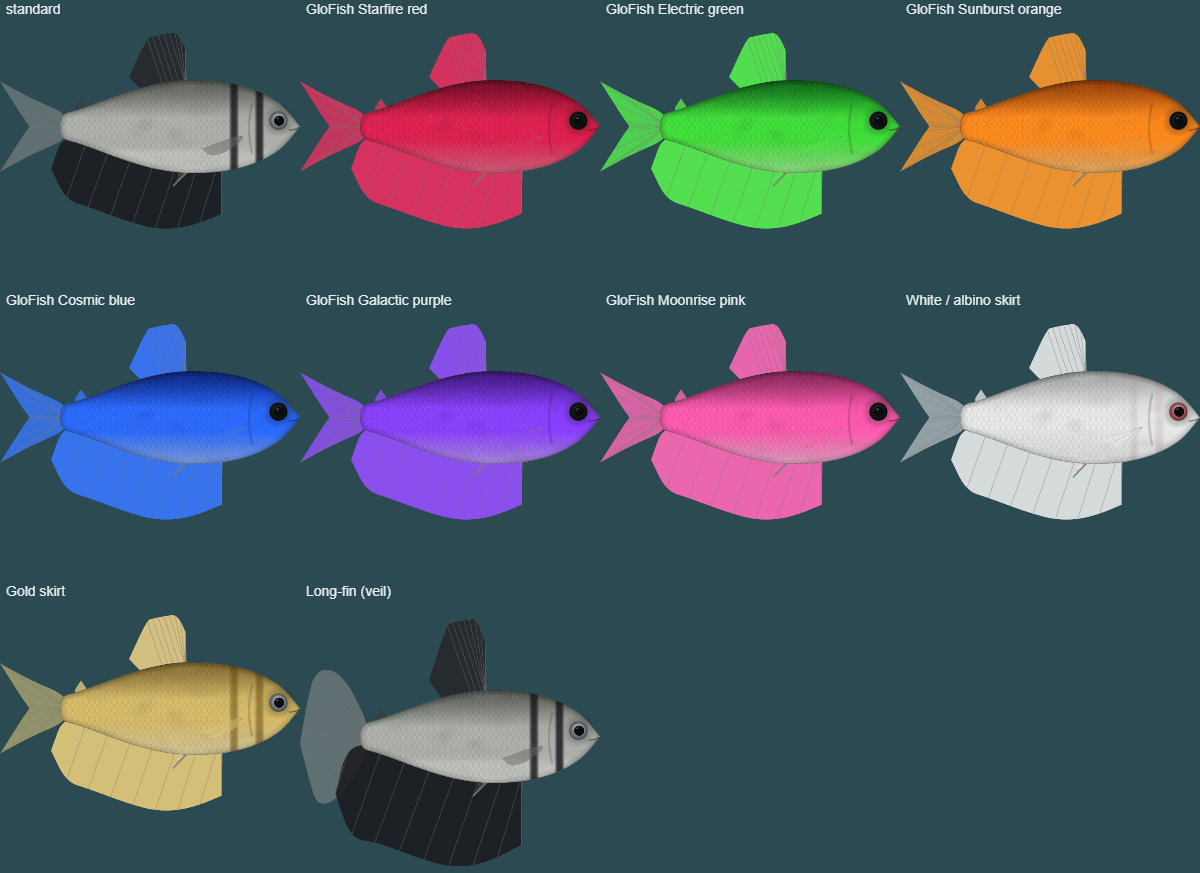
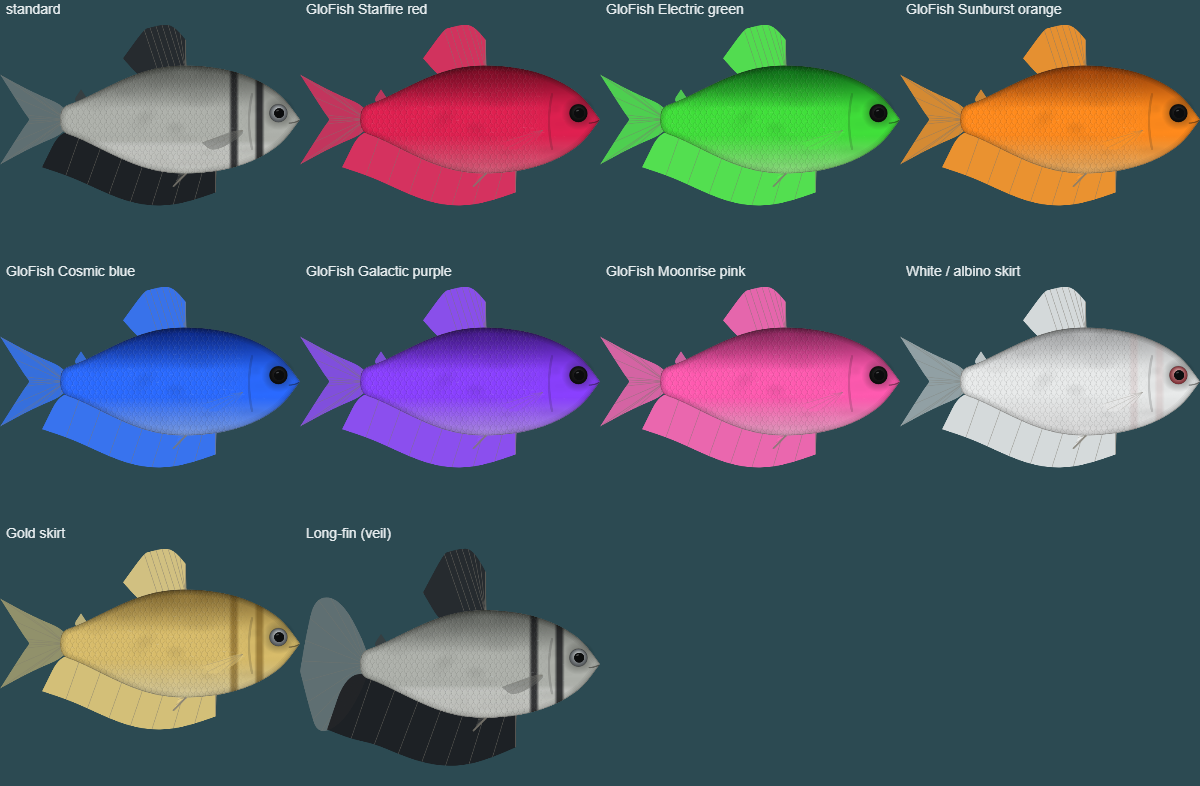
CM3 (R107) part 2: discus rebuilt (rounder disc, snout and eye set back, red eye, taller dorsal / anal, new 'maze' mark for the vermiculated net, checkerboard form), black Moscow guppy tail, slimmer guppy fancy tails; Commons reference photos side by side in research/screens/CM3/compare
(cherry picked from commit 82fdf741ec49528fd50106c44b8f618521399637)

diff --git a/src/art/forms.ts b/src/art/forms.ts
@@ -99,14 +99,14 @@ const bettaT: Record<string, Patch> = {
 };
 
 // ---------- guppy (male: fancy tail and gonopodium; the female keeps her plain body with a coloured tail)
-const gDelta = { type: 'delta' as const, h: 0.3 };
+const gDelta = { type: 'delta' as const, h: 0.22 };
 const guppyC: Record<string, Patch> = {
   'full-red': look({ shade: ['#7a1218', '#b8202a', '#d8524e'], fin: '#c4222c', tail: '#c8222c', dorsal: '#c4222c', fm: 0.5, marks: [], finMarks: [spots('#e8504a', 24, 0.04, 0.4, -0.24, 0.24, 0.012, 0.25)], iris: ['#8a3a30', '#2a0c08'], fmarks: undefined }),
   'japan-blue': look({ shade: ['#142a58', '#2c5ca8', '#5a8cc8'], fin: '#2a58b4', tail: '#2c5eb8', dorsal: '#2c5eb8', fm: 0.45, marks: [spots('#8ab8f0', 36, 0.45, 0.95, -0.05, 0.06, 0.012, 0.3)], finMarks: [spots('#7aa8e8', 24, 0.04, 0.4, -0.24, 0.24, 0.012, 0.25)], shimmerRgb: '150,195,255' }),
   'moscow-blue': look({ shade: ['#0c1844', '#183c98', '#3868c0'], fin: '#1a3ca0', tail: '#1c40a8', dorsal: '#1a3ca0', fm: 0.45, marks: [spots('#6a9ee8', 36, 0.45, 0.95, -0.05, 0.06, 0.012, 0.3)], finMarks: [spots('#4a7ad0', 24, 0.04, 0.4, -0.24, 0.24, 0.012, 0.25)], shimmerRgb: '130,175,255', iris: ['#3a4a6a', '#0a0a18'] }),
   'moscow-green': look({ shade: ['#0c3a20', '#1a7a44', '#3cb070'], fin: '#1c8a4c', tail: '#1e8e50', dorsal: '#1c8a4c', fm: 0.45, marks: [spots('#78e0a0', 36, 0.45, 0.95, -0.05, 0.06, 0.012, 0.3)], finMarks: [spots('#4ac07a', 24, 0.04, 0.4, -0.24, 0.24, 0.012, 0.25)], shimmerRgb: '150,255,190' }),
   'moscow-purple': look({ shade: ['#2a0c4a', '#5a24a0', '#8c58c8'], fin: '#5a28a4', tail: '#5e2aa8', dorsal: '#5a28a4', fm: 0.45, marks: [spots('#b090f0', 36, 0.45, 0.95, -0.05, 0.06, 0.012, 0.3)], finMarks: [spots('#8a60d0', 24, 0.04, 0.4, -0.24, 0.24, 0.012, 0.25)], shimmerRgb: '200,170,255' }),
-  'black-moscow': look({ shade: ['#08080c', '#14141c', '#26262e'], fin: '#101018', tail: '#12121a', dorsal: '#101018', fm: 0.55, marks: [spots('#3a3a50', 30, 0.45, 0.95, -0.05, 0.06, 0.012, 0.3)], finMarks: [], shimmerRgb: '130,140,190', iris: ['#4a4a52', '#0a0a0c'] }),
+  'black-moscow': look({ shade: ['#08080c', '#14141c', '#26262e'], fin: '#101018', tail: '#12121a', dorsal: '#101018', fm: 0.55, marks: [spots('#3a3a50', 30, 0.45, 0.95, -0.05, 0.06, 0.012, 0.3)], finMarks: [band(0.02, 0.38, 0.03, 0.26, '#d8782a', 0.6, 0.07), band(0.02, 0.3, -0.2, -0.02, '#b8b090', 0.3, 0.07)], shimmerRgb: '130,140,190', iris: ['#4a4a52', '#0a0a0c'] }),
   tuxedo: look({ shade: ['#2a2a30', '#6a6c70', '#a8aab0'], fin: '#2a64b8', tail: '#2a64b8', dorsal: '#2a64b8', fm: 0.4,
     marks: [{ k: 'band', u0: 0.38, u1: 0.62, v0: -0.12, v1: 0.12, c: '#0a0a0e', a: 0.97, f: 0.05 }, { k: 'band', u0: 0.4, u1: 0.5, v0: -0.12, v1: 0.12, c: '#0a0a0e', a: 0.9, f: 0.03 }, { k: 'blob', u: 0.86, v: 0, ru: 0.2, rv: 0.1, c: '#c4d0dc', a: 0.55 }], finMarks: [spots('#1a3a8a', 24, 0.04, 0.4, -0.24, 0.24, 0.012, 0.3)] }),
   cobra: look({ shade: ['#8a6a2a', '#d8b050', '#f0dc94'], fin: '#e8a830', tail: '#e8a830', dorsal: '#e8a830', fm: 0.4,
@@ -118,14 +118,14 @@ const guppyC: Record<string, Patch> = {
 };
 const guppyT: Record<string, Patch> = {
   delta: fins({ tail: gDelta, dorsalH: 1.5 }),
-  fan: fins({ tail: { type: 'round', h: 0.27 }, dorsalH: 1.3 }),
-  veil: fins({ tail: { type: 'veil', h: 0.38 }, dorsalH: 2 }),
-  lyre: fins({ tail: { type: 'lyre', h: 0.3, cut: 0.45 }, dorsalH: 1.5 }),
-  spade: fins({ tail: { type: 'spade', h: 0.3 }, dorsalH: 1.3 }),
-  round: fins({ tail: { type: 'round', h: 0.2 } }),
+  fan: fins({ tail: { type: 'round', h: 0.2 }, dorsalH: 1.3 }),
+  veil: fins({ tail: { type: 'veil', h: 0.3 }, dorsalH: 2 }),
+  lyre: fins({ tail: { type: 'lyre', h: 0.24, cut: 0.45 }, dorsalH: 1.5 }),
+  spade: fins({ tail: { type: 'spade', h: 0.22 }, dorsalH: 1.3 }),
+  round: fins({ tail: { type: 'round', h: 0.16 } }),
   pin: fins({ tail: { type: 'pin', h: 0.22 } }),
-  doublesword: fins({ tail: { type: 'double', h: 0.3 }, dorsalH: 1.5 }),
-  dumbo: fins({ pec: 2.4, tail: { type: 'delta', h: 0.28 }, dorsalH: 1.4 }),
+  doublesword: fins({ tail: { type: 'double', h: 0.22 }, dorsalH: 1.5 }),
+  dumbo: fins({ pec: 2.4, tail: { type: 'delta', h: 0.2 }, dorsalH: 1.4 }),
 };
 
 // ---------- platy / molly / swordtail (males: gonopodium; females are paler)
@@ -174,16 +174,19 @@ const angelC: Record<string, Patch> = {
 const angelT: Record<string, Patch> = { veil: (p) => ({ ...p, tail: { ...p.tail, type: 'veil', h: 0.38 }, dorsal: p.dorsal && { ...p.dorsal, h: (p.dorsal as { h: number }).h * 1.25 } as typeof p.dorsal, anal: p.anal && { ...p.anal, h: (p.anal as { h: number }).h * 1.3 } as typeof p.anal, pelvic: p.pelvic && { ...p.pelvic, len: p.pelvic.len * 1.3 } }) };
 
 // ---------- discus
-const dlines = (a: string, b: string, seed = 0.012) => Array.from({ length: 15 }, (_, i) => ({ k: 'band' as const, u0: 0.12, u1: 0.98, v0: -0.34 + i * 0.045, v1: -0.34 + i * 0.045 + seed, c: i % 2 ? a : b, a: 0.75, wave: 0.014 }));
+const eyeBar = (c = '#10202a', a = 0.55): Marks[number] => ({ k: 'bars', us: [0.925], w: 0.026, c, a });
+const net = (c: string, a: number, seed: number, o: { lv?: number; w?: number; scale?: number; stretch?: number; rim?: [number, number]; core?: number; above?: boolean } = {}): Marks[number] => ({ k: 'maze', u0: 0.13, u1: 1, v0: -0.42, v1: 0.42, c, a, scale: o.scale ?? 0.07, w: o.w ?? 0.26, lv: o.lv, seed, stretch: o.stretch ?? 1.5, rim: o.rim, core: o.core, above: o.above });
+const fnet = (c: string, a: number, o: { lv?: number; w?: number } = {}): Marks[number] => ({ k: 'maze', u0: 0, u1: 1, v0: -0.6, v1: 0.6, c, a, scale: 0.05, w: o.w ?? 0.42, lv: o.lv, seed: 31, stretch: 1.4 });
 const discusC: Record<string, Patch> = {
-  'red-turquoise': look({ shade: ['#7a2a1c', '#c8482c', '#e88860'], fin: '#c8502a', tail: '#b86a50', marks: [{ k: 'bars', us: [0.88, 0.2], w: 0.035, c: '#3a1a14', a: 0.35 }, ...dlines('#2f9ab8', '#6adbe0', 0.011).filter((_, i) => i % 2 === 0)], finMarks: [] }),
-  'pigeon-blood': look({ shade: ['#e0803a', '#f2a860', '#fad8a8'], fin: '#e8884a', tail: '#e6a070', marks: [{ k: 'blob', u: 0.5, v: 0.15, ru: 0.35, rv: 0.25, c: '#fff0d8', a: 0.55 }, { k: 'blob', u: 0.8, v: -0.2, ru: 0.15, rv: 0.12, c: '#e05a28', a: 0.5 }], finMarks: [], iris: ['#d02a1a', '#4a0808'] }),
-  snakeskin: look({ shade: ['#5a4a32', '#b8985a', '#dcc890'], fin: '#a88858', tail: '#9a8058', marks: [{ k: 'bars', us: [0.88, 0.2], w: 0.035, c: '#2a2a30', a: 0.4 }, ...Array.from({ length: 26 }, (_, i) => ({ k: 'band' as const, u0: 0.12, u1: 0.98, v0: -0.38 + i * 0.03, v1: -0.38 + i * 0.03 + 0.012, c: i % 3 ? '#3a2a1a' : '#e8d8a0', a: 0.65, wave: 0.03 }))], finMarks: [] }),
-  cobalt: look({ shade: ['#10246a', '#2650b8', '#5088d8'], fin: '#2c58b8', tail: '#4468b0', marks: [{ k: 'bars', us: [0.88, 0.2], w: 0.035, c: '#10143a', a: 0.4 }, ...dlines('#4a88e8', '#7ab8f8', 0.012)], finMarks: [], shimmerRgb: '125,180,255' }),
-  red: look({ shade: ['#6a0e10', '#b81c1e', '#dc5a50'], fin: '#c01e20', tail: '#a84048', marks: [{ k: 'bars', us: [0.88, 0.2], w: 0.035, c: '#3a0c0c', a: 0.25 }], finMarks: [], iris: ['#d02a1a', '#3a0808'] }),
-  golden: look({ shade: ['#b88a1e', '#eec234', '#f8e68a'], fin: '#f0c850', tail: '#e8cc70', marks: [{ k: 'blob', u: 0.5, v: 0.1, ru: 0.35, rv: 0.25, c: '#fff4c0', a: 0.45 }], finMarks: [], iris: ['#d8381a', '#4a0808'] }),
-  white: look({ shade: ['#c8ccce', '#e8ebec', '#f8f9f9'], fin: '#eef0f0', tail: '#e2e6e8', marks: [spots('#2a2a30', 26, 0.2, 0.9, -0.3, 0.3, 0.02, 0.5)], finMarks: [], iris: ['#d02a1a', '#4a0808'] }),
-  brown: look({ shade: ['#3a2a1a', '#6a4a2e', '#a08462'], fin: '#6a5238', tail: '#7a6248', marks: [{ k: 'bars', us: [0.88, 0.62, 0.4, 0.2], w: 0.035, c: '#1a1210', a: 0.6 }], finMarks: [], shimmerRgb: '255,225,180' }),
+  'red-turquoise': look({ shade: ['#8a2a18', '#d4502c', '#ee9468'], fin: '#c8502a', tail: '#b46a4c', marks: [net('#2f9ab8', 0.85, 41, { w: 0.14, scale: 0.075, stretch: 2.2, rim: [0.25, 0.8], core: 0.15 }), net('#6adbe0', 0.9, 41, { w: 0.1, lv: 0.4, scale: 0.075, stretch: 2.2, rim: [0.25, 0.8], core: 0.15 }), eyeBar('#3a1008', 0.5)], finMarks: [fnet('#5a2218', 0.7), fnet('#58d4dc', 0.8, { lv: 0.5, w: 0.2 })], iris: ['#f2552a', '#a82010'] }),
+  'pigeon-blood': look({ shade: ['#e07c36', '#f4aa62', '#fadcae'], fin: '#e8884a', tail: '#e6a070', marks: [{ k: 'blob', u: 0.55, v: 0.15, ru: 0.35, rv: 0.25, c: '#fff2dc', a: 0.5 }, { k: 'blob', u: 0.8, v: -0.2, ru: 0.15, rv: 0.12, c: '#e05a28', a: 0.45 }, net('#f0e0c8', 0.55, 43, { w: 0.2, stretch: 1.8, rim: [0.1, 0.7], core: 0.3 }), eyeBar('#8a3014', 0.35)], finMarks: [fnet('#f2c898', 0.5, { w: 0.2 })], iris: ['#e8281a', '#7a0c08'] }),
+  snakeskin: look({ shade: ['#5a4a30', '#bc9c5c', '#e0cc94'], fin: '#a88858', tail: '#9a8058', marks: [net('#2a1e12', 0.8, 47, { scale: 0.04, w: 0.3, stretch: 1.2 }), net('#f0e2b0', 0.8, 47, { scale: 0.04, w: 0.2, lv: 0.55, stretch: 1.2 }), eyeBar('#2a1e12', 0.5)], finMarks: [fnet('#2a1e12', 0.7), fnet('#e8d8a0', 0.7, { lv: 0.5, w: 0.2 })] }),
+  cobalt: look({ shade: ['#142a72', '#2a58bc', '#5a90dc'], fin: '#2c58b8', tail: '#4468b0', marks: [net('#0a0e30', 0.85, 53, { rim: [0.65, 0.95] }), net('#6aa8f6', 0.9, 53, { lv: 0.5, w: 0.2, rim: [0.65, 0.95] }), eyeBar('#0a1030', 0.6)], finMarks: [fnet('#0a1030', 0.8), fnet('#62a0f0', 0.9, { lv: 0.5, w: 0.2 })], shimmerRgb: '125,180,255' }),
+  checkerboard: look({ shade: ['#9ab8c0', '#d8eaee', '#eaf4f4'], fin: '#a85a48', tail: '#8a6a60', marks: [net('#e04a1a', 0.95, 59, { scale: 0.068, w: 0.5, stretch: 1.5 }), { k: 'blob', u: 0.9, v: 0.04, ru: 0.12, rv: 0.2, c: '#ee6a28', a: 0.95 }, { k: 'maze', u0: 0.82, u1: 1, v0: -0.22, v1: 0.26, c: '#fff0e0', a: 0.85, scale: 0.034, w: 0.14, seed: 77, stretch: 0.45 }, eyeBar('#802010', 0.4)], finMarks: [fnet('#7a1a14', 0.8, { w: 0.3 }), fnet('#86e0e8', 0.75, { lv: 0.55, w: 0.2 })], iris: ['#e8281a', '#7a0c08'] }),
+  red: look({ shade: ['#6e1010', '#b81e20', '#de5c52'], fin: '#c01e20', tail: '#a84048', marks: [net('#3a0c0c', 0.3, 61, { w: 0.2, rim: [0.7, 0.97] }), eyeBar('#3a0c0c', 0.3)], finMarks: [fnet('#3a0c0c', 0.35, { w: 0.2 })], iris: ['#e8281a', '#6a0808'] }),
+  golden: look({ shade: ['#b88c20', '#f0c636', '#f8e88c'], fin: '#f0c850', tail: '#e8cc70', marks: [{ k: 'blob', u: 0.5, v: 0.1, ru: 0.35, rv: 0.25, c: '#fff6c8', a: 0.45 }, eyeBar('#6a4a10', 0.3)], finMarks: [], iris: ['#e8381a', '#7a0c08'] }),
+  white: look({ shade: ['#c4c8cc', '#e8ebee', '#f8f9fa'], fin: '#e4e8ea', tail: '#e2e6e8', marks: [net('#2a2a30', 0.75, 67, { lv: 1.05, w: 0.5, scale: 0.1, stretch: 1.1, above: true }), eyeBar('#2a2a30', 0.3)], finMarks: [], iris: ['#e8281a', '#7a0c08'] }),
+  brown: look({ shade: ['#38281a', '#6c4c30', '#a68866'], fin: '#6a5238', tail: '#7a6248', marks: [{ k: 'bars', us: [0.925, 0.8, 0.7, 0.6, 0.5, 0.4, 0.3, 0.22], w: 0.03, c: '#1a1210', a: 0.55 }, net('#c8a878', 0.25, 71, { scale: 0.06, w: 0.18, rim: [0.2, 0.9] })], finMarks: [fnet('#2a1c10', 0.5, { w: 0.2 })], shimmerRgb: '255,225,180', iris: ['#d85a2a', '#6a1a0c'] }),
 };
 
 // ---------- zebra danio / tiger barb: GloFish colours (fluorescent, no stripes) and others

diff --git a/src/art/fishgen.ts b/src/art/fishgen.ts
@@ -41,7 +41,11 @@ type Mark =
   | { k: 'bars'; us: number[]; w: number; c: string; a?: number }
   | { k: 'spots'; n: number; u0: number; u1: number; v0: number; v1: number; r: number; c: string; a?: number }
   | { k: 'blob'; u: number; v: number; ru: number; rv: number; c: string; a?: number }
-  | { k: 'poly'; pts: Pt[]; c: string; a?: number }; // points flagged 'c' are sharp corners (shape())
+  | { k: 'poly'; pts: Pt[]; c: string; a?: number } // points flagged 'c' are sharp corners (shape())
+  // CM3 'maze': winding contour lines of a seeded wave field (the vermiculated net of a discus, the marbling of a koi): wherever
+  // |field - lv| < w the colour is laid down. scale = wavelength (widths); stretch > 1 runs the lines lengthways; rim = [r0, r1]
+  // fades the pattern in between those fractions of the box's ellipse radius (rim-only patterns); core = the weight kept inside r0.
+  | { k: 'maze'; u0: number; u1: number; v0: number; v1: number; c: string; a?: number; scale: number; w: number; lv?: number; seed?: number; stretch?: number; rim?: [number, number]; core?: number; above?: boolean };
 
 export interface Plan {
   depth: number;      // max body depth, widths
@@ -294,6 +298,27 @@ function plates(l: Ctx, P: Proj, W: number, p: Plan, prof: (u: number) => [numbe
   l.restore();
 }
 
+function maze(c: Ctx, P: Proj, m: Extract<Mark, { k: 'maze' }>) {
+  if (typeof ImageData === 'undefined') return;
+  const [xa, ya] = P(m.u0, m.v0), [xb, yb] = P(m.u1, m.v1), X0 = Math.floor(Math.min(xa, xb)), Y0 = Math.floor(Math.min(ya, yb)), w = Math.ceil(Math.abs(xb - xa)), h = Math.ceil(Math.abs(yb - ya));
+  if (w < 2 || h < 2 || w * h > 6e6) return;
+  const S = Math.abs(P(1, 0)[0] - P(0, 0)[0]), r = rng(m.seed ?? 5), st = m.stretch ?? 1, K = 8, waves: [number, number, number][] = [];
+  for (let i = 0; i < K; i++) { const ang = r() * Math.PI * 2, k = 2 * Math.PI / (m.scale * S * (0.8 + 0.4 * r())); waves.push([Math.cos(ang) * k / st, Math.sin(ang) * k, r() * Math.PI * 2]); }
+  const n = parseInt(m.c.slice(1), 16), R = n >> 16, G = (n >> 8) & 255, B = n & 255, A = m.a ?? 0.9, lv = m.lv ?? 0, norm = Math.sqrt(2 / K), [r0, r1] = m.rim ?? [0, 0], core = m.core ?? 0;
+  const img = new ImageData(w, h), d = img.data, ss = (e0: number, e1: number, x: number) => { const t = Math.min(1, Math.max(0, (x - e0) / (e1 - e0))); return t * t * (3 - 2 * t); };
+  for (let y = 0; y < h; y++) for (let x = 0; x < w; x++) {
+    let wt = 1;
+    if (m.rim) { const rr = Math.hypot((2 * x) / w - 1, (2 * y) / h - 1); wt = core + (1 - core) * ss(r0, r1, rr); if (wt <= 0.003) continue; }
+    let f = 0; const X = X0 + x, Y = Y0 + y;
+    for (const [kx, ky, ph] of waves) f += Math.cos(kx * X + ky * Y + ph);
+    const t = Math.abs(f * norm - lv), a = (m.above ? ss(lv - m.w * 0.3, lv + m.w * 0.3, f * norm) : 1 - ss(m.w * 0.55, m.w, t)) * wt * A;
+    if (a <= 0.004) continue;
+    const i = (y * w + x) * 4; d[i] = R; d[i + 1] = G; d[i + 2] = B; d[i + 3] = Math.round(a * 255);
+  }
+  const tmp = document.createElement('canvas'); tmp.width = w; tmp.height = h; tmp.getContext('2d')!.putImageData(img, 0, 0);
+  c.drawImage(tmp, X0, Y0);
+}
+
 function paintMarks(c: Ctx, P: Proj, W: number, marks: Mark[] | undefined, seed: number) {
   const r = rng(seed);
   for (const m of marks ?? []) {
@@ -301,6 +326,7 @@ function paintMarks(c: Ctx, P: Proj, W: number, marks: Mark[] | undefined, seed:
     else if (m.k === 'band') { const f = m.f ?? 0.02; soft(c, P, m.u0, m.u1, m.v0, m.v1, m.c, m.a ?? 0.9, [f, f], [f * 0.6, f * 0.6]); }
     else if (m.k === 'bars') for (const u of m.us) soft(c, P, u - m.w / 2, u + m.w / 2, -1, 1, m.c, m.a ?? 0.85, [m.w * 0.3, m.w * 0.3], [0, 0]);
     else if (m.k === 'blob') blob(c, P, W, m.u, m.v, m.ru, m.rv, m.c, m.a ?? 0.9);
+    else if (m.k === 'maze') maze(c, P, m);
     else if (m.k === 'poly') { shape(c, P, m.pts); c.fillStyle = hexA(m.c, m.a ?? 0.9); c.fill(); }
     else for (let i = 0; i < m.n; i++) {
       const rr = m.r * (0.7 + r() * 0.6);
@@ -645,14 +671,21 @@ export const PLANS: Record<string, Plan> = {
       { k: 'blob', u: 0.6, v: 0.11, ru: 0.22, rv: 0.07, c: '#8a64b0', a: 0.3 }, { k: 'blob', u: 0.62, v: 0.1, ru: 0.15, rv: 0.06, c: '#d0405a', a: 0.75 }],
     finMarks: [{ k: 'blob', u: 0.3, v: -0.17, ru: 0.025, rv: 0.025, c: '#1a1a1a', a: 0.85 }, { k: 'blob', u: 0.1, v: -0.04, ru: 0.022, rv: 0.022, c: '#e8c040', a: 0.9 }, { k: 'blob', u: 0.1, v: -0.04, ru: 0.01, rv: 0.01, c: '#1a1a1a', a: 0.9 },
       { k: 'blob', u: 0.1, v: 0.04, ru: 0.022, rv: 0.022, c: '#e8c040', a: 0.9 }, { k: 'blob', u: 0.1, v: 0.04, ru: 0.01, rv: 0.01, c: '#1a1a1a', a: 0.9 }], eye: { r: 0.028, iris: ['#c8a050', '#3a2a10'] } },
-  discus: { shimmer: 0.6, shimmerRgb: '125,215,235', gillLine: 0.25, finFade: 0.2, scale: 0.014, thick: 0.2, depth: 0.78, pedU: 0.13, ped: 0.07, peak: 0.45, snout: 0.85, mouth: 0.02, shade: ['#5a6a7a', '#3f8aa8', '#4a98b0'], tail: { type: 'notch', h: 0.14, tint: '#6a8a9a' }, fin: '#5a8698',
-    // dorsal and anal follow the disc from behind the head and the pelvics round to the tail root
-    dorsal: { at: 0.8, len: 0.64, h: 0.075, spines: 0.35, nSp: 7, spineH: [0.03, 0.06], notch: 0.15, rake: 0.75, trail: 0.05, drop: 0.85, edge: '#c8603a' },
-    anal: { at: 0.7, len: 0.54, h: 0.075, spines: 0.2, nSp: 4, spineH: [0.03, 0.06], notch: 0.15, rake: 0.75, trail: 0.05, drop: 0.85, edge: '#c8603a' }, pelvic: { u: 0.72, len: 0.12, tint: '#c8603a' }, gape: 0.03,
-    marks: [{ k: 'bars', us: [0.88, 0.2], w: 0.035, c: '#2a2a30', a: 0.55 }, // wavy turquoise net over a blue-brown body (Commons: Blue Discus): thin wavy lines, neighbours out of phase, with fainter darker lines between
-      ...Array.from({ length: 15 }, (_, i) => ({ k: 'band' as const, u0: 0.12, u1: 0.98, v0: -0.34 + i * 0.045, v1: -0.34 + i * 0.045 + 0.013, c: i % 2 ? '#2f9ab8' : '#6adbe0', a: 0.75, wave: 0.014 })),
-      ...Array.from({ length: 14 }, (_, i) => ({ k: 'band' as const, u0: 0.12, u1: 0.98, v0: -0.318 + i * 0.045, v1: -0.318 + i * 0.045 + 0.01, c: '#7a4a38', a: 0.3, wave: 0.016 }))],
-    eye: { r: 0.03, iris: ['#d04a2a', '#4a1208'] }, rim: 0.03 },
+  discus: { shimmer: 0.55, shimmerRgb: '125,215,235', gillLine: 0.25, finFade: 0.15, scale: 0.012, thick: 0.2, depth: 0.8, pedU: 0.13, ped: 0.07, peak: 0.5, snout: 0.9, mouth: 0.06, shade: ['#3a84a2', '#5cb4ce', '#8accdf'], tail: { type: 'notch', h: 0.12, tint: '#46788c' }, fin: '#4a7c92',
+    // dorsal and anal follow the disc from behind the head and the pelvics round to the tail root; both carry the body's net (finMarks)
+    dorsal: { at: 0.76, len: 0.6, h: 0.12, spines: 0.35, nSp: 7, spineH: [0.03, 0.06], notch: 0.15, rake: 0.6, trail: 0.05, drop: 0.85, edge: '#9a4a30' },
+    anal: { at: 0.68, len: 0.52, h: 0.12, spines: 0.2, nSp: 4, spineH: [0.03, 0.06], notch: 0.15, rake: 0.6, trail: 0.05, drop: 0.85, edge: '#9a4a30' }, pelvic: { u: 0.7, len: 0.3, thread: true, tint: '#d0683a', angle: 72 }, pec: { s: 1.0 }, gape: 0.03,
+    // Reference (Wikimedia Commons, blue hybrid discus): a smooth, light turquoise flank with only a faint dotted line; the pattern is a dense net of dark brown lines
+    // with bright turquoise between them, crowded toward the dorsal and anal margins; a dark bar through the red eye, curved dark lines on the cheek
+    marks: [
+      { k: 'maze', u0: 0.13, u1: 1, v0: -0.42, v1: 0.42, c: '#14222c', a: 0.88, scale: 0.06, w: 0.4, seed: 11, stretch: 1.8, rim: [0.6, 0.9] },
+      { k: 'maze', u0: 0.13, u1: 1, v0: -0.42, v1: 0.42, c: '#8cf0f6', a: 0.92, scale: 0.06, w: 0.3, lv: 0.62, seed: 11, stretch: 1.8, rim: [0.6, 0.9] },
+      { k: 'maze', u0: 0.85, u1: 1, v0: -0.2, v1: 0.24, c: '#1c3a4a', a: 0.55, scale: 0.032, w: 0.13, seed: 23, stretch: 0.45 },
+      { k: 'bars', us: [0.925], w: 0.026, c: '#10202a', a: 0.6 }],
+    finMarks: [
+      { k: 'maze', u0: 0, u1: 1, v0: -0.6, v1: 0.6, c: '#241a16', a: 0.88, scale: 0.05, w: 0.42, seed: 31, stretch: 1.4 },
+      { k: 'maze', u0: 0, u1: 1, v0: -0.6, v1: 0.6, c: '#6ae6ee', a: 0.92, scale: 0.05, w: 0.3, lv: 0.62, seed: 31, stretch: 1.4 }],
+    eye: { r: 0.038, u: 0.84, dv: -0.02, iris: ['#f04a2a', '#a01a10'], pupil: '#08090a' }, rim: 0.03 },
   angel: { shimmer: 0.5, shimmerRgb: '235,242,255', gillLine: 0.25, finFade: 0.4, thick: 0.2, angular: 0.8, depth: 0.78, pedU: 0.2, ped: 0.045, peak: 0.375, snout: 0.25, shade: ['#9a998e', '#c0beb2', '#e4e1d7'], tail: { type: 'notch', h: 0.24, tint: '#c3c4bc' }, fin: '#c3c4bc',
     // dorsal and anal: long bases, the spines stepping up the leading edge, the soft rays sweeping back to high trailing tips
     dorsal: { at: 0.68, len: 0.42, h: 0.42, spines: 0.3, nSp: 5, spineH: [0.04, 0.11], notch: 0.12, rake: 0.9, tip: 'point', trail: 0.13, drop: 1 },

diff --git a/scripts/cm3-sheet.js b/scripts/cm3-sheet.js
@@ -22,3 +22,12 @@ export async function sheet(id, o = {}) {
   await fetch('/__shot?name=CM3-' + (o.name ?? id), { method: 'POST', body: await c.convertToBlob({ type: 'image/png' }) });
   return 'ok ' + items.length;
 }
+
+/** One card of a species in a form, 900 px wide on the water background -> shots/CM3-card-<name>.png (for the photo-left compare images). */
+export async function card(id, o = {}) {
+  const s = speciesOf({ species: id, sex: o.sex, form: o.form, finForm: o.finForm }), w = 900, h = Math.round(w * s.aspect);
+  const c = new OffscreenCanvas(w, h), x = c.getContext('2d'); x.fillStyle = BG; x.fillRect(0, 0, w, h);
+  x.drawImage(drawFishCard(s.art, s.aspect, 1024), 0, 0, w, h);
+  await fetch('/__shot?name=CM3-card-' + (o.name ?? id), { method: 'POST', body: await c.convertToBlob({ type: 'image/png' }) });
+  return 'ok';
+}
